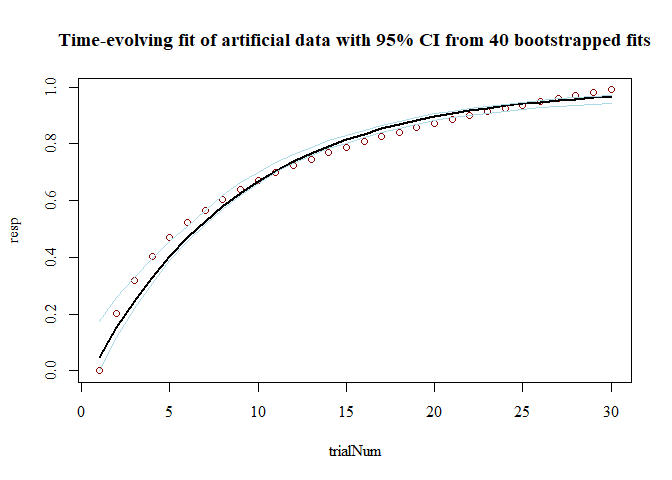
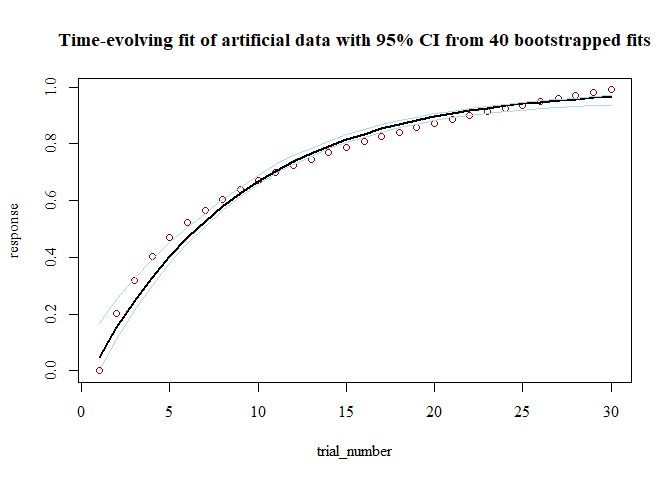
update README

diff --git a/README.md b/README.md
@@ -4,11 +4,11 @@ Overview to Time-Evolving fits
 
 Data is described, interpreted, and tested using indices such as d prime, mean, or psychometric function threshold. The **TEfits** package serves to allow the same questions to be asked about time-evolving aspects of these indices, such as the starting level, the amount of time that the index takes to change, and the asymptotic level of that index. Nonlinear regression applied to time-evolving functions is made as intuitive and painless as is feasible, with many extensions if desired.
 
-The **TEfits** package is intended to assist in the implementation and interpretation of nonlinear regression with a heavy emphasis on interpretability of parameters. Parameters fit by **TEfits** are meant to reflect human-interpretable representations of time-evolving processes such as starting values, number of trials until 50% of change, or asymptotic values. Error functions, nonlinear ("change") functions linking parameters and time to predicted values, parameter and prediction boundaries, and goodness-of-fit indices are intended to be clear and adjustable. An equal emphasis is on ease of use: minimal arguments are necessary to begin using the primary function, `TEfit()`, and many common tasks are fully automated (e.g., optimization starting points, bootstrapping).
+The **TEfits** package has a heavy emphasis on interpretability of parameters. As far as possible, parameters fit by **TEfits** are meant to reflect human-interpretable representations of time-evolving processes. Error functions, nonlinear ("change") functions linking predicted values to parameters and time, parameter and prediction boundaries, and goodness-of-fit indices are intended to be clear and adjustable. An equal emphasis is on ease of use: minimal arguments are necessary to begin using the primary function, `TEfit()`, and many common tasks are fully automated (e.g., optimization starting points, bootstrapping).
 
 ``` r
-dat <- data.frame(resp=log(1:30),trialNum=1:30)
-mod <- TEfit(dat[,c('resp','trialNum')])
+dat <- data.frame(response=log(1:30),trial_number=1:30)
+mod <- TEfit(dat[,c('response','trial_number')])
 
 plot(mod,plot_title='Time-evolving fit of artificial data')
 ```
@@ -20,7 +20,7 @@ summary(mod)
 ```
 
     ## 
-    ## >> Call: resp~(pAsym) + ((pStart) - (pAsym)) * 2^((1 - trialNum)/(2^(pRate)))
+    ## >> Call: response~(pAsym) + ((pStart) - (pAsym)) * 2^((1 - trial_number)/(2^(pRate)))
     ## 
     ## >> Converged: TRUE 
     ## 
@@ -37,18 +37,20 @@ summary(mod)
     ## ols -123.1074
     ## 
     ## >> Test of change in nonindependence:
-    ##                                            rawSpearman modelConditionalSpearman
-    ## Nonindependence between resp and trialNum:           1             0.0002224694
-    ##                                            proportionalSpearmanChange
-    ## Nonindependence between resp and trialNum:               0.0002224694
-    ##                                            pValSpearmanChange
-    ## Nonindependence between resp and trialNum:                  0
+    ##                                                    rawSpearman
+    ## Nonindependence between response and trial_number:           1
+    ##                                                    modelConditionalSpearman
+    ## Nonindependence between response and trial_number:             0.0002224694
+    ##                                                    proportionalSpearmanChange
+    ## Nonindependence between response and trial_number:               0.0002224694
+    ##                                                    pValSpearmanChange
+    ## Nonindependence between response and trial_number:                  0
 
 An example of a learning fit using a Bernoulli response distribution, with 40 bootstrapped fits.
 
 ``` r
-dat <- data.frame(resp=log(1:30)/log(31),trialNum=1:30)
-mod <- TEfit(dat[,c('resp','trialNum')], 
+dat <- data.frame(response=log(1:30)/log(31),trial_number=1:30)
+mod <- TEfit(dat[,c('response','trial_number')], 
              errFun='bernoulli',
              bootPars=list(nBoots=40))
 plot(mod,plot_title='Time-evolving fit of artificial data with 95% CI from 40 bootstrapped fits')
@@ -61,27 +63,29 @@ summary(mod)
 ```
 
     ## 
-    ## >> Call: resp~(pAsym) + ((pStart) - (pAsym)) * 2^((1 - trialNum)/(2^(pRate)))
+    ## >> Call: response~(pAsym) + ((pStart) - (pAsym)) * 2^((1 - trial_number)/(2^(pRate)))
     ## 
     ## >> Converged: TRUE 
     ## 
     ## >> Fit Values:
     ##        Estimate  Q025  Q975 pseudoSE
-    ## pAsym     0.998 0.961 1.000    0.010
-    ## pRate     2.557 2.245 2.735    0.125
-    ## pStart    0.046 0.000 0.176    0.045
+    ## pAsym     0.998 0.955 1.000    0.011
+    ## pRate     2.557 2.285 2.743    0.117
+    ## pStart    0.046 0.000 0.168    0.043
     ## 
     ## >> Goodness-of-fit:
     ##                err nullErr nPars nObs      BIC nullBIC  deltaBIC
     ## bernoulli 13.11101 17.6538     3   30 36.42561 38.7088 -2.283196
     ## 
     ## >> Test of change in nonindependence:
-    ##                                            rawSpearman modelConditionalSpearman
-    ## Nonindependence between resp and trialNum:           1                0.2520578
-    ##                                            proportionalSpearmanChange
-    ## Nonindependence between resp and trialNum:                  0.2520578
-    ##                                            pValSpearmanChange
-    ## Nonindependence between resp and trialNum:                  0
+    ##                                                    rawSpearman
+    ## Nonindependence between response and trial_number:           1
+    ##                                                    modelConditionalSpearman
+    ## Nonindependence between response and trial_number:                0.2520578
+    ##                                                    proportionalSpearmanChange
+    ## Nonindependence between response and trial_number:                  0.2520578
+    ##                                                    pValSpearmanChange
+    ## Nonindependence between response and trial_number:                  0
     ## 
     ## >> Percent of resamples predicting an increase in values: 100 
     ## 
@@ -89,7 +93,7 @@ summary(mod)
     ## 
     ## >> Bootstrapped parameter correlations:
     ##         pAsym pStart pRate    err
-    ## pAsym   1.000  0.527 0.844 -0.247
-    ## pStart  0.527  1.000 0.871  0.292
-    ## pRate   0.844  0.871 1.000  0.054
-    ## err    -0.247  0.292 0.054  1.000
+    ## pAsym   1.000  0.485 0.823 -0.270
+    ## pStart  0.485  1.000 0.864  0.422
+    ## pRate   0.823  0.864 1.000  0.127
+    ## err    -0.270  0.422 0.127  1.000
